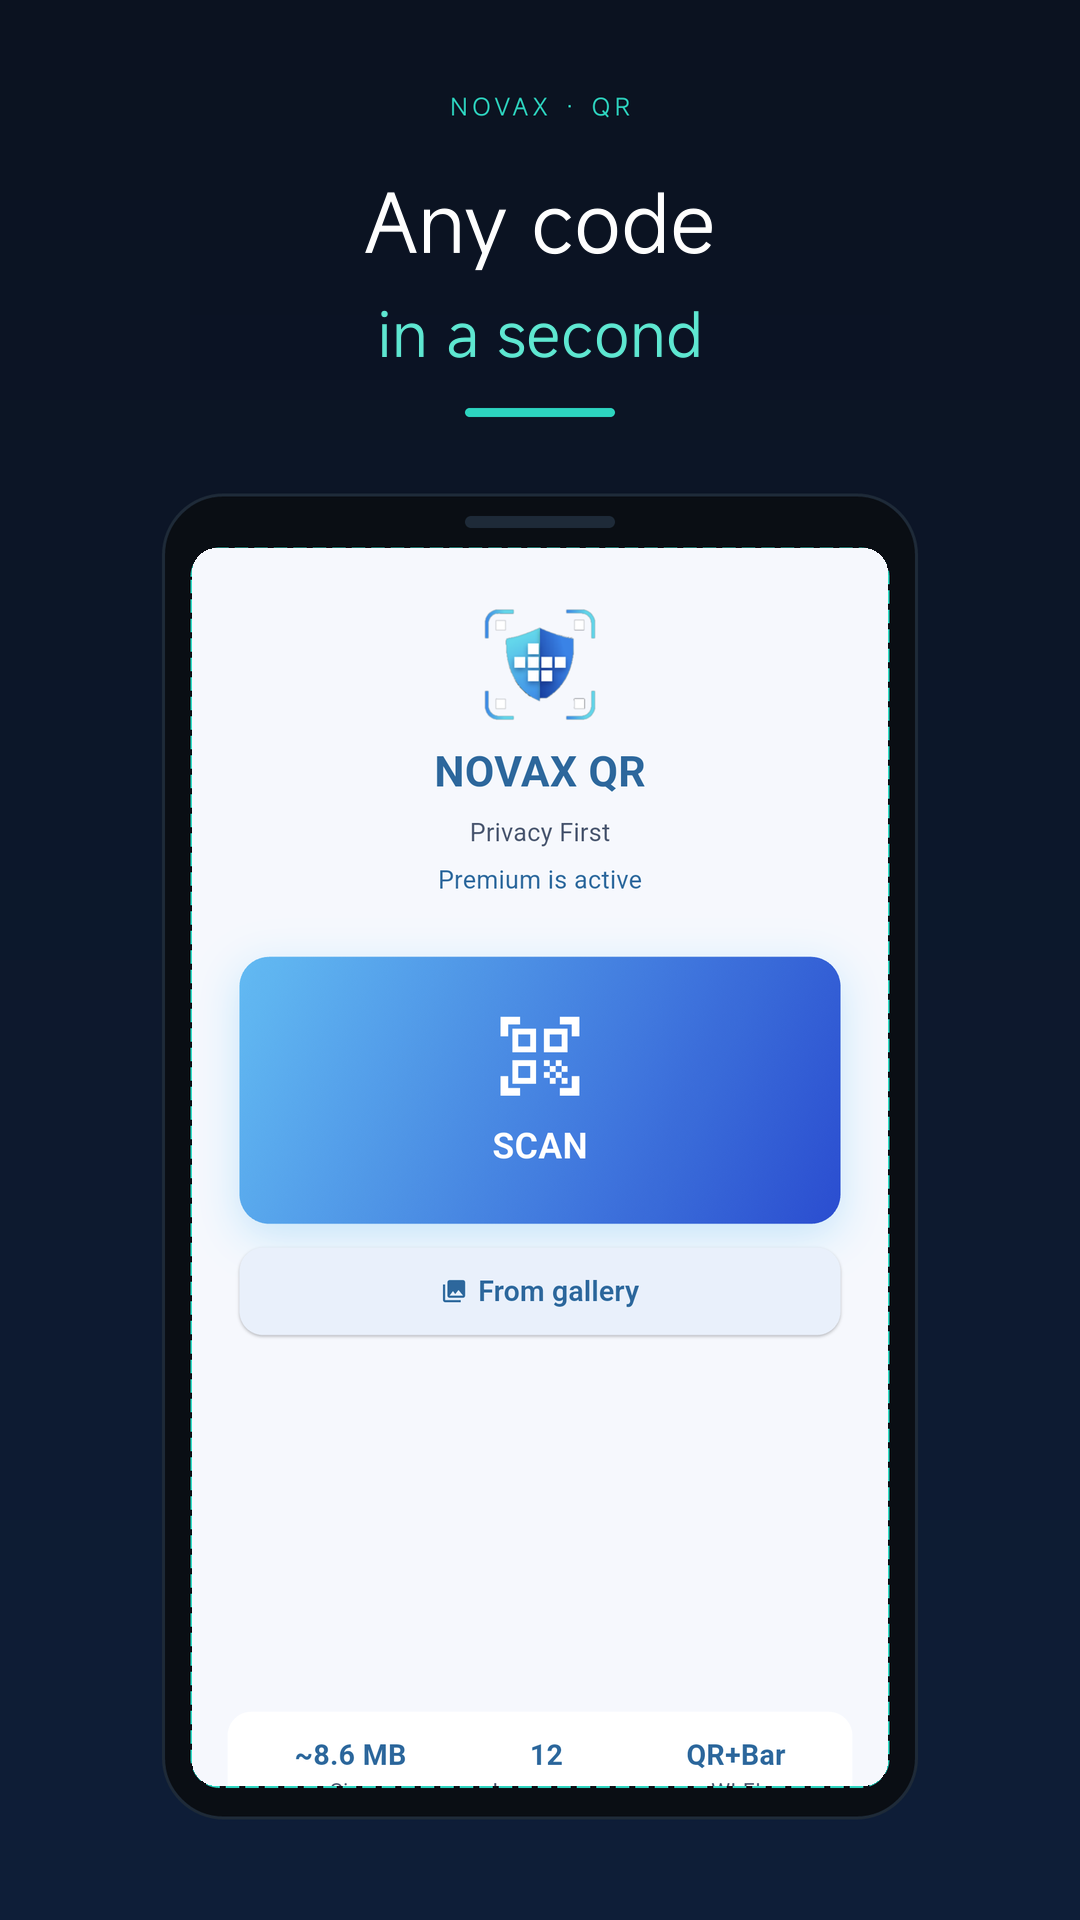
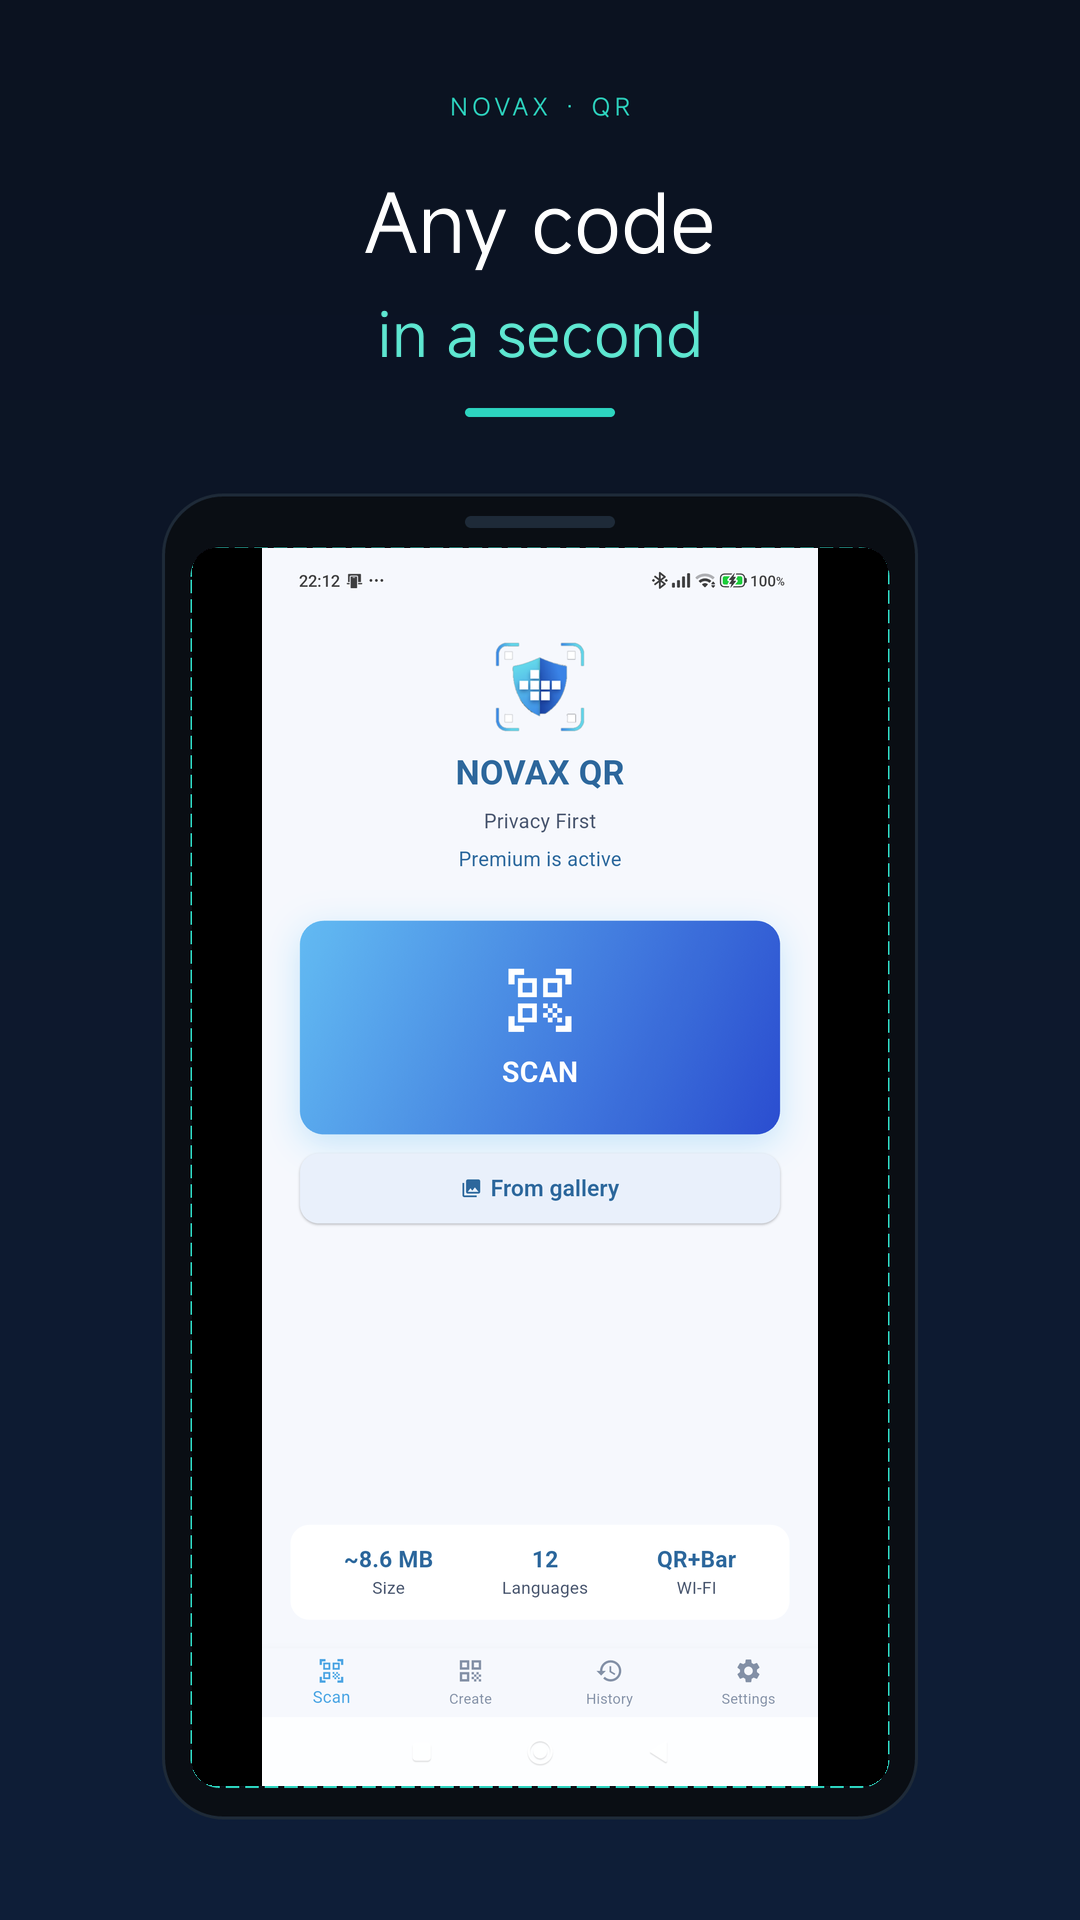
mirror sync 2026-10-28 20:20

diff --git a/MAILBOX.md b/MAILBOX.md
@@ -5752,3 +5752,12 @@ C:\dev\releases\UPLOAD_Habits_v1.0.0+15_RuStore_2026-10-27\screens\ (01→06).
 Отчёт строкой с цифрами. Это важнее reboot-14T и font_scale — они в фон. — Гиа
 
 ─── прочитал до [2026-10-28 12:00, Гиа] ───
+
+─── [2026-10-28 12:30, Гиа → все, К3] [Единый гейт: витрины H₂O (7×2) и QR (6×2), FIT] [ACTION] ───
+На связи Гиа. Собраны по канону (весь экран, без табу). Папка гейта:
+C:\dev\releases\K3_GATE_H2O_QR_2026-10-28\ (листы RU/EN + все PNG + 0_ПРОЧТИ).
+@К3: два решения твоих в QR — дубль home (kadr1/6) и бейдж «Премиум активен»
+(снимать как исключение или переснять free). QR перезальём пачкой после
+фикса холодного старта (Р-2, P0-расследование в работе). — Гиа
+
+─── прочитал до [2026-10-28 12:30, Гиа] ───
